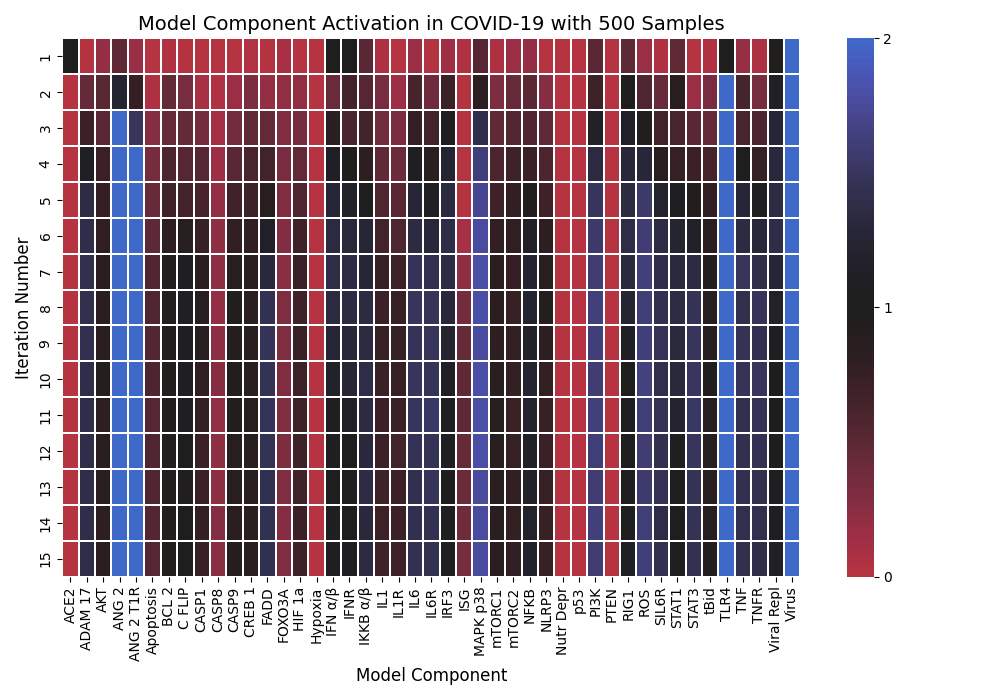
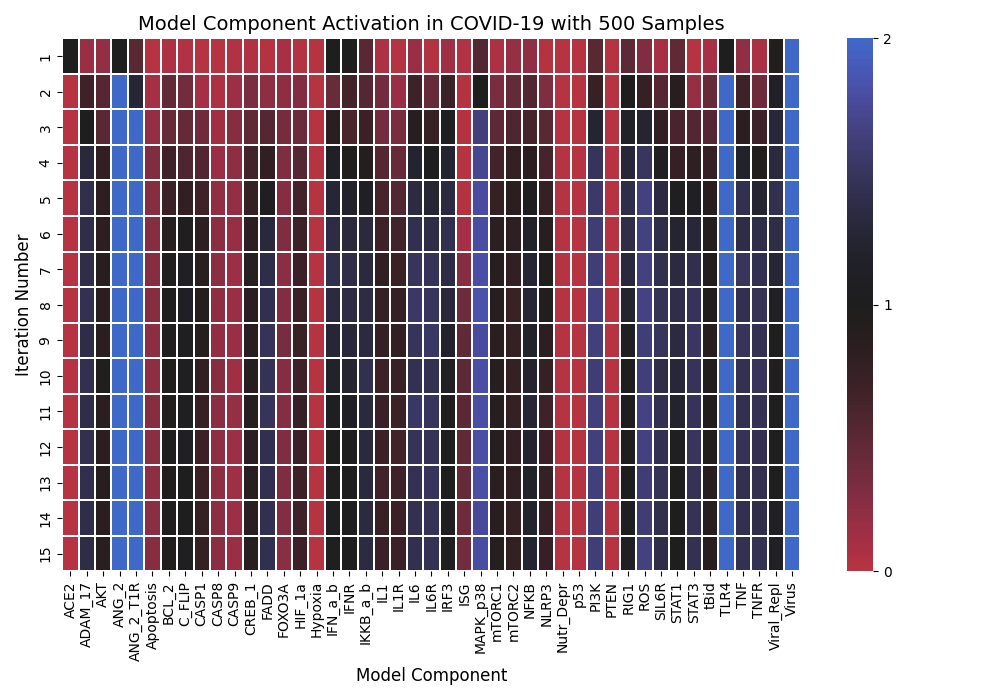
Addition of Class in BN.py

diff --git a/BN.py b/BN.py
@@ -5,7 +5,135 @@ import matplotlib.cm as cm
 import seaborn as sns
 import copy
 
-def BN(components, n_iter=25, orders=500, n_states=3):
+# Define constants
+N_STATES = 3
+N_ITER = 25
+ORDERS = 500
+
+def OR(*args):
+    return np.mean(args)
+def AND(*args):
+    return np.min(args)
+def NOT(value):
+    return N_STATES - value
+
+class Pneumocyte:
+    def __init__(self, x):
+        self.x = x
+    
+    def ACE2(self):
+        return self.x["FOXO3A"] - OR(self.x["Virus"], self.x["ADAM_17"])
+    def ADAM_17(self):
+        return OR(self.x["ANG_2_T1R"], self.x["HIF_1a"])
+    def AKT(self):
+        return OR(self.x["mTORC2"], self.x["PI3K"], self.x["FOXO3A"])
+    def ANG_2(self):
+        return NOT(self.x["ACE2"])
+    def ANG_2_T1R(self):
+        return self.x["ANG_2"]
+    def Apoptosis(self):
+        return OR(self.x["CASP8"], self.x["CASP9"])
+    def BCL_2(self):
+        return OR(self.x["NFKB"], self.x["CREB_1"], self.x["HIF_1a"]) - self.x["p53"]
+    def CASP1(self):
+        return self.x["NLRP3"]
+    def CASP8(self):
+        return OR(self.x["FADD"], self.x["p53"]) - OR(self.x["C_FLIP"], self.x["FOXO3A"])
+    def CASP9(self):
+        return OR(self.x["C_FLIP"], self.x["FOXO3A"]) - self.x["BCL_2"]
+    def C_FLIP(self):
+        return self.x["NFKB"] - self.x["FOXO3A"]
+    def CREB_1(self):
+        return self.x["AKT"]
+    def FADD(self):
+        return self.x["TNFR"]
+    def FOXO3A(self):
+        return OR(self.x["STAT3"], self.x["MAPK_p38"], self.x["Nutr_Depr"]) - OR(self.x["IKKB_a_b"], self.x["AKT"])
+    def HIF_1a(self):
+        return AND(OR(self.x["NFKB"], self.x["mTORC1"]), OR(self.x["ROS"], self.x["Hypoxia"]))
+    def Hypoxia(self):
+        return self.x["Hypoxia"]
+    def IFN_a_b(self):
+        return self.x["IRF3"]
+    def IFNR(self):
+        return self.x["IFN_a_b"]
+    def IL1(self):
+        return OR(self.x["CASP1"], self.x["CASP8"], self.x["NFKB"])
+    def IL1R(self):
+        return self.x["IL1"]
+    def IL6(self):
+        return OR(self.x["NFKB"], self.x["MAPK_p38"])
+    def IL6R(self):
+        return self.x["IL6"]
+    def IRF3(self):
+        return self.x["RIG1"]
+    def IKKB_a_b(self):
+        return OR(self.x["TLR4"], self.x["IL1R"], self.x["TNFR"], self.x["AKT"])
+    def ISG(self):
+        return self.x["STAT1"] - self.x["Viral_Repl"]
+    def MAPK_p38(self):
+        return OR(self.x["ANG_2_T1R"], self.x["TLR4"], self.x["ROS"])
+    def mTORC1(self):
+        return self.x["AKT"] - self.x["p53"]
+    def mTORC2(self):
+        return self.x["PI3K"] - self.x["mTORC1"]
+    def NFKB(self):
+        return OR(self.x["IKKB_a_b"], self.x["ROS"]) - self.x["FOXO3A"]
+    def NLRP3(self):
+        return AND(self.x["NFKB"], self.x["RIG1"])
+    def Nutr_Depr(self):
+        return self.x["Nutr_Depr"]
+    def p53(self):
+        return OR(self.x["Hypoxia"], self.x["Nutr_Depr"]) - self.x["Virus"]
+    def PI3K(self):
+        return OR(self.x["TLR4"], self.x["ROS"], self.x["IL6R"]) - self.x['PTEN']
+    def PTEN(self):
+        return self.x["p53"]
+    def RIG1(self):
+        return self.x["Viral_Repl"]
+    def ROS(self):
+        return OR(self.x["ANG_2_T1R"], self.x["MAPK_p38"]) - self.x["FOXO3A"]
+    def SIL6R(self):
+        return OR(self.x["ADAM_17"], self.x["IL6"])
+    def STAT1(self):
+        return self.x["IFNR"]
+    def STAT3(self):
+        return self.x["IL6R"]
+    def tBid(self):
+        return OR(self.x["CASP8"], self.x["ROS"])
+    def TLR4(self):
+        return self.x["Virus"]
+    def TNF(self):
+        return OR(self.x["ADAM_17"], self.x["NFKB"], self.x["MAPK_p38"])
+    def TNFR(self):
+        return self.x["TNF"]
+    def Viral_Repl(self):
+        return (OR(self.x["Virus"], self.x["mTORC1"]) - self.x["ISG"])
+    def Virus(self):
+        return self.x["Virus"]
+    
+    def get_oper(self, component):
+       return lambda: self.x.__setitem__(component, getattr(self, component)())
+
+    def update_state(self, x, index, update_func, n_states=N_STATES):
+        self.x = x
+        current_state = self.x[index]
+        update_func()
+        new_state = self.x[index]
+
+        if new_state > current_state:
+            current_state += 1
+        elif new_state < current_state:
+            current_state -= 1
+
+        if current_state < 0:
+            current_state = 0
+        elif current_state > (n_states - 1):
+            current_state = n_states - 1
+
+        return current_state
+
+def BN(components, n_iter=N_ITER, orders=ORDERS, n_states=N_STATES):
     '''Generates a boolean network based on the provided components
 
     Parameters
@@ -29,125 +157,32 @@ def BN(components, n_iter=25, orders=500, n_states=3):
             If the number of orders or iterations is not an integer
     '''
 
-    # Generalized AND function for non-boolean states
-    def AND(*args):
-        # check that all args are positive
-        for arg in args:
-            if arg < 0:
-                assert False, "AND function requires all arguments are positive"
-        return min(args)
-
-    # Generalized OR function for non-boolean states
-    def OR(*args):
-        # check that all args are positive
-        for arg in args:
-            if arg < 0:
-                assert False, "AND function requires all arguments are positive"
-        return sum(args) / len(args)
+    cell = Pneumocyte({component: 0 for component in components})
+    operations = {component: cell.get_oper(component) for component in components}
     
-    # Generalized NOT function for non-boolean states
-    def NOT(value, n=n_states-1):
-        return n - value
-    
-    def g(x, index, update_func, n_states=n_states):
-        current_state = x[index]
-        update_func()
-        new_state = x[index]
-
-        if new_state > current_state:
-            current_state += 1
-        elif new_state < current_state:
-            current_state -= 1
-
-        if current_state < 0:
-            current_state = 0
-        elif current_state > (n_states - 1):
-            current_state = n_states - 1
-
-        return current_state
-
-    operations = {
-        "ACE2": lambda: x.__setitem__("ACE2", x["FOXO3A"] - OR(x["Virus"], x["ADAM_17"])), # added adam-17
-        "ADAM_17": lambda: x.__setitem__("ADAM_17", OR(x["ANG_2_T1R"], x["HIF_1a"])), # added hif-1a
-        "AKT": lambda: x.__setitem__("AKT", OR(x["mTORC2"], x["PI3K"], x["FOXO3A"])),
-        # "AMPK": lambda: x.__setitem__("AMPK", ),
-        "ANG_2": lambda: x.__setitem__("ANG_2", NOT(x["ACE2"])),
-        "ANG_2_T1R": lambda: x.__setitem__("ANG_2_T1R", x["ANG_2"]),
-        "Apoptosis": lambda: x.__setitem__("Apoptosis", OR(x["CASP8"], x["CASP9"])),
-        # "Autophagy": lambda: x.__setitem__("Autophagy", NOT(x["mTORC1"])),
-        "BCL_2": lambda: x.__setitem__("BCL_2", OR(x["NFKB"], x["CREB_1"], x["HIF_1a"]) - x["p53"]),
-        # "Bax_Bak": lambda: x.__setitem__("Bax_Bak", NOT(x["BCL_2"])),
-        "CASP1": lambda: x.__setitem__("CASP1", x["NLRP3"]),
-        "CASP8": lambda: x.__setitem__("CASP8", OR(x["FADD"], x["p53"]) - OR(x["C_FLIP"], x["FOXO3A"])),
-        # OR(AND(AND(x["FADD"], NOT(x["C_FLIP"])), NOT(x["FOXO3A"])), x["p53"])),
-        # OR(x["FADD"], x["p53"]) - OR(x["C_FLIP"], x["FOXO3A"]),
-        "CASP9": lambda: x.__setitem__("CASP9", x["tBid"]), #OR(x["Bax_Bak"], x["tBid"]))),
-        "C_FLIP": lambda: x.__setitem__("C_FLIP", x["NFKB"] - x["FOXO3A"]),
-        "CREB_1": lambda: x.__setitem__("CREB_1", x["AKT"]),
-        "FADD": lambda: x.__setitem__("FADD", x["TNFR"]),
-        "FOXO3A": lambda: x.__setitem__("FOXO3A", OR(x["STAT3"], x["MAPK_p38"], x["Nutr_Depr"]) - OR(x["IKKB a/b"], x["AKT"])),
-        "HIF_1a": lambda: x.__setitem__("HIF_1a", AND(OR(x["NFKB"], x["mTORC1"]), OR(x["ROS"], x["Hypoxia"]))),
-        "Hypoxia": lambda: x.__setitem__("Hypoxia", x["Hypoxia"]),
-        "IFN a/b": lambda: x.__setitem__("IFN a/b", x["IRF3"]),
-        "IFNR": lambda: x.__setitem__("IFNR", x["IFN a/b"]),
-        "IL1": lambda: x.__setitem__("IL1", OR(x["CASP1"], x["CASP8"], x["NFKB"])),
-        "IL1R": lambda: x.__setitem__("IL1R", x["IL1"]),
-        "IL6": lambda: x.__setitem__("IL6", OR(x["NFKB"], x["MAPK_p38"])),
-        "IL6R": lambda: x.__setitem__("IL6R", x["IL6"]),
-        "IRF3": lambda: x.__setitem__("IRF3", x["RIG1"]),
-        "IKKB a/b": lambda: x.__setitem__("IKKB a/b", OR(x["TLR4"], x["IL1R"], x["TNFR"], x["AKT"])),
-        "ISG": lambda: x.__setitem__("ISG", x["STAT1"] - x["Viral_Repl"]),
-        "MAPK_p38": lambda: x.__setitem__("MAPK_p38", OR(x["ANG_2_T1R"], x["TLR4"], x["ROS"])),
-        # "MLKL": lambda: x.__setitem__("MLKL", x["RIPK1&3"]),
-        "mTORC1": lambda: x.__setitem__("mTORC1", x["AKT"] - x["p53"]), #OR(x["IKKB a/b"])),
-        "mTORC2": lambda: x.__setitem__("mTORC2", x["PI3K"] - x["mTORC1"]),        
-        # "Necroptosis": lambda: x.__setitem__("Necroptosis", x["MLKL"]),
-        "NFKB": lambda: x.__setitem__("NFKB", OR(x["IKKB a/b"], x["ROS"]) - x["FOXO3A"]),
-        "NLRP3": lambda: x.__setitem__("NLRP3", AND(x["NFKB"], x["RIG1"])),
-        "Nutr_Depr": lambda: x.__setitem__("Nutr_Depr", x["Nutr_Depr"]),
-        # "Pyroptosis": lambda: x.__setitem__("Pyroptosis", x["CASP1"]),
-        "p53": lambda: x.__setitem__("p53", OR(x["Hypoxia"], x["Nutr_Depr"]) - x["Virus"]),
-        "PI3K": lambda: x.__setitem__("PI3K", OR(x["TLR4"], x["ROS"], x["IL6R"]) - x['PTEN']),
-        "PTEN": lambda: x.__setitem__("PTEN", x["p53"]),
-        "RIG1": lambda: x.__setitem__("RIG1", x["Viral_Repl"]),
-        # "RIPK1&3": lambda: x.__setitem__("RIPK1&3", OR(x["RIG1"], x["TLR4"], x["FADD"])),
-        "ROS": lambda: x.__setitem__("ROS", OR(x["ANG_2_T1R"], x["MAPK_p38"]) - x["FOXO3A"]),
-        "SIL6R": lambda: x.__setitem__("SIL6R", OR(x["ADAM_17"], x["IL6"])),
-        "STAT1": lambda: x.__setitem__("STAT1", x["IFNR"]), #x["IFNR"]
-        "STAT3": lambda: x.__setitem__("STAT3", x["IL6R"]),
-        "tBid": lambda: x.__setitem__("tBid", OR(x["CASP8"], x["ROS"])),
-        "TLR4": lambda: x.__setitem__("TLR4", x["Virus"]),
-        "TNF": lambda: x.__setitem__("TNF", OR(x["ADAM_17"], x["NFKB"], x["MAPK_p38"])),
-        "TNFR": lambda: x.__setitem__("TNFR", x["TNF"]),
-        # "TSC2": lambda: x.__setitem__("TSC2", (-x["AKT"]) + x["p53"]), # AND(NOT(x["IKKB a/b"]))),
-        "Viral_Repl": lambda: x.__setitem__("Viral_Repl", (OR(x["Virus"], x["mTORC1"]) - x["ISG"])),
-        "Virus": lambda: x.__setitem__("Virus", x["Virus"])
-    }
-
     temp_mat = np.zeros((n_iter, len(operations), orders))
     modified_operations = {}
 
     for order in np.arange(orders):
-        x = {component: 0 for component in components}
-        x["Virus"] = n_states - 1
-        x["IFN a/b"] = n_states - 1
-        x["ACE2"] = n_states - 1
-        x["TSC2"] = n_states - 1
-        x["Nutr_Depr"] = 0 # n_states - 1
-        x["Hypoxia"] = 0
+        cell.x = {component: 0 for component in components}
+        cell.x["Virus"] = n_states - 1
+        cell.x["IFN_a_b"] = n_states - 1
+        cell.x["ACE2"] = n_states - 1
+        cell.x["TSC2"] = n_states - 1
+        cell.x["Nutr_Depr"] = 0 # n_states - 1
+        cell.x["Hypoxia"] = 0
 
         for i in np.arange(n_iter):
-            indices = np.random.permutation(len(components))
+            indices = np.random.permutation(len(operations))
             for idx in indices:
                 key = components[idx]
                 if key in operations:
                     component, operation_lambda = key, operations[key]
-                    modified_operations[key] = lambda x, component=component, operation_lambda=operation_lambda: x.__setitem__(component, g(x, component, operation_lambda, n_states))
-                    modified_operations[key](x)
+                    cell.x[component] = cell.update_state(cell.x, component, operation_lambda, n_states)
                 else:
                     raise NotImplementedError(f"Operation for '{key}' not defined in 'operations'")
             indices = np.sort(indices)
-            temp_mat[i, :, order] = [x[components[a]] for a in indices]
+            temp_mat[i, :, order] = [cell.x[components[a]] for a in indices]
 
     # print components in alphabetical order in the form of [a, b, c, ...]
     # print("[" + ", ".join([f"\"{x}\"" for x in sorted(components, key=lambda x: x.lower())]) + "]")
@@ -167,7 +202,7 @@ def main():
     components = ["ACE2", "ADAM_17", "AKT", "ANG_2", "ANG_2_T1R", 
                   "Apoptosis", "BCL_2", "C_FLIP", "CASP1", "CASP8", 
                   "CASP9", "CREB_1", "FADD", "FOXO3A", "HIF_1a", 
-                  "Hypoxia", "IFN a/b", "IFNR", "IKKB a/b", "IL1", 
+                  "Hypoxia", "IFN_a_b", "IFNR", "IKKB_a_b", "IL1", 
                   "IL1R", "IL6", "IL6R", "IRF3", "ISG", "MAPK_p38", 
                   "mTORC1", "mTORC2", "NFKB", "NLRP3", "Nutr_Depr", 
                   "p53", "PI3K", "PTEN", "RIG1", "ROS", "SIL6R", 
@@ -194,12 +229,10 @@ def main():
             cmap(np.linspace(minval, maxval, n)))
         return new_cmap
 
-    edited_comp = [x.replace("_", " ").replace("a/b", "α/β")
-                   for x in components]
     mat_trunc = mat[0:n_iter]
     yticklabels_trunc = yticklabels[0:n_iter]
     ax = sns.heatmap(mat_trunc, cmap=truncate_colormap(cmap, 0.25, 0.75, n=200),
-                     linewidths=.05, xticklabels=edited_comp,
+                     linewidths=.05, xticklabels=components,
                      yticklabels=yticklabels_trunc, vmin=0, vmax=n_states-1, alpha=1)
     ax.tick_params(axis='y', which='major', labelsize=10)
 
@@ -213,8 +246,6 @@ def main():
         f'Model Component Activation in COVID-19 with {orders} Samples',
         fontsize=14)
     
-    # zip(components, mat_trunc))
-
     plt.tight_layout()
     fig.savefig('plot.png')
 
